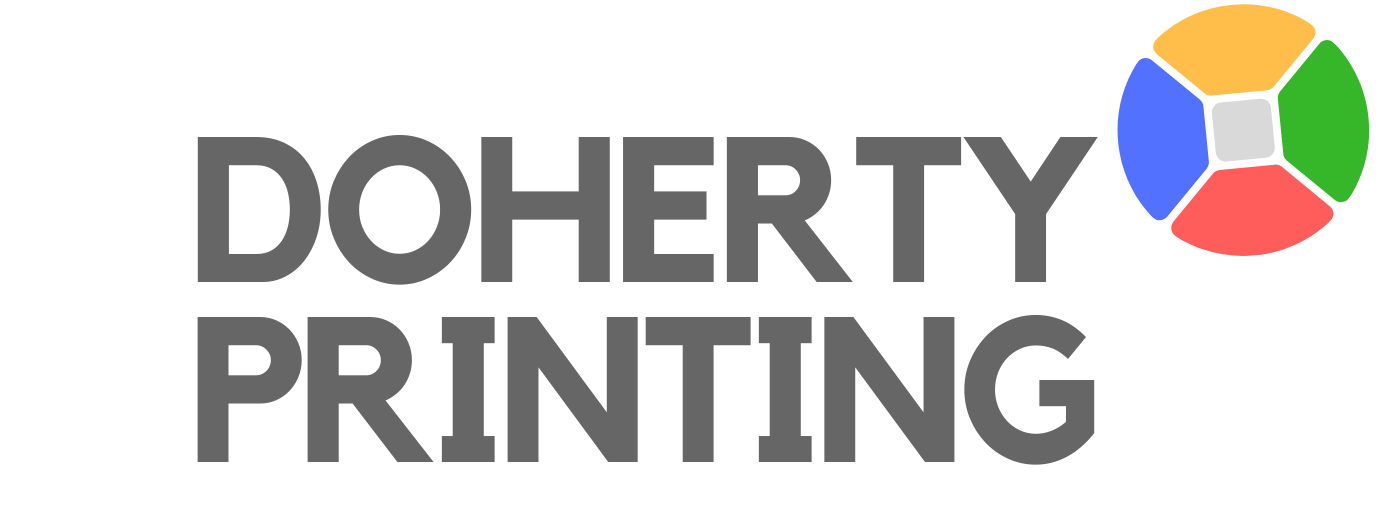
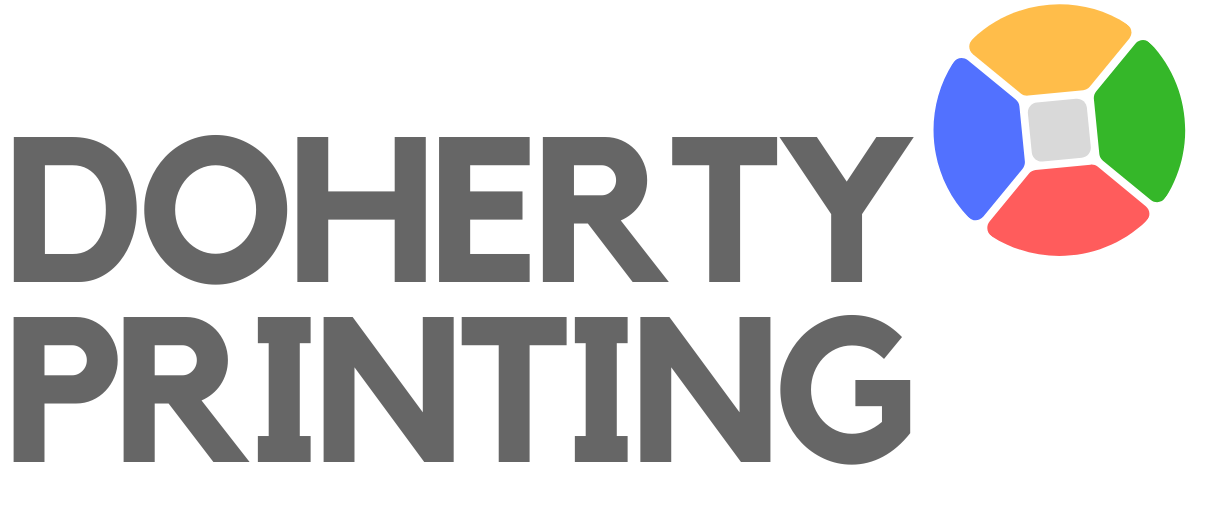
made up to the mission page responsive

diff --git a/index.html b/index.html
@@ -32,13 +32,13 @@
     <div class="row">
         <div class="col-12">
    <nav class="navbar navbar-light navbar-expand-sm">
-       <a class="navbar-brand" href="#"><img src="images/DOHERTY PRINTING (3).png" width="130" height="50" alt=""> </a>
+       <a class="navbar-brand logo" href="#"><img src="images/DOHERTY PRINTING (3).png" width="110" height="50" alt=""> </a>
        <button class="navbar-toggler ml-auto" type="button" data-toggle="collapse" data-target="#navbarNavDropdown" aria-controls="navbarNavDropdown" aria-expanded="false" aria-label="Toggle navigation">
         <span class="navbar-toggler-icon"></span></button>
         <div class="collapse navbar-collapse" id="navbarNavDropdown">
        
-         <div id="navvy"> 
-    <ul class="navbar-nav ml-auto float-right text-right">
+      
+    <ul class="navbar-nav ml-auto float-right text-right left">
         <li class="nav-item active"><a class="nav-link" href="index.html">Home <span class="sr-only"> Current page </span></a></li>
         <li class="nav-item dropdown"><a class="nav-link dropdown-toggle" href="#" id="navbarDropdown" role="button" data-toggle="dropdown" aria-haspopup="true" aria-expanded="false"> Wedding Stationery<span class="sr-only">Wedding Stationery</span></a>
             <div class="dropdown-menu" aria-labelledby="navbarDropdown">
@@ -60,7 +60,7 @@
         <li class="nav-item"><a class="nav-link" href="#">Contact Us</a></li>
     </ul>
 </div>
-    </div>
+
 </nav>
 </div>
 </div>
@@ -99,7 +99,7 @@
    
 <div class="header-cover">
        
-        <h1>THE BEST PRICED <br>MEMORIAL CARDS AND WEDDING <br>STATIONERY IN IRELAND</h1>
+        <h1>THE BEST PRICED <br>MEMORIAL CARDS AND WEDDING STATIONERY<br> IN IRELAND</h1>
    
    
         <div class="get-a-qoute">
@@ -107,14 +107,9 @@
         <button type="button" class="btn btn-primary btn-lg qoutebutton">Get A Qoute</button>
         </div>
         </div>
-        
-      
-   
-
-    
-
-    
+        <div class="card"></div>
     </header>
+
     
 
     
@@ -123,15 +118,16 @@
     
     <div class="container what-we-do">
         <div class="row">
-            <div class="col-12">
+            <div class="col-12 col-md-12">
         
     <p>
-        <h2>WHAT DO WE DO</h2>
+        <h2>WHAT DO WE DO?</h2>
         We are a small business located in County Limerick, selling high quality personalized Memorial Cards and Wedding Stationery at affordable prices. Our Memorial Card selection includes wallet cards, bookmarks and acknowledgement cards. In our Wedding Stationery collection, we sell day and evening invitations, mass booklets and thank you cards. 
     </p>
     </div>
     </div>
     </div>
+    <div class="picture"></div>
 
     <!-------mission statement-->
     <div class="container mission">

diff --git a/CSS/style.css b/CSS/style.css
@@ -10,15 +10,16 @@ h2{
 }
 /*navbar------------------*/
 .navbar{
-    padding-left:0;
     font-family:"Roboto", sans-serif ;
     font-size:.75em;
     margin-top:0;
 }
 
+
+
 /*header--------*/
 .header-cover{
-    background-color: rgb(201, 225, 233);
+    background-color:rgb(201, 225, 233);
 }
 h1{
     color:rgb(83, 82, 82);
@@ -53,11 +54,6 @@ font-size:30px;
     padding:0;
 }
 
-@media screen and (max-width: 1366px){
-    #navvy{
-        margin-left:2px;
-    }
-}
 
 
 
@@ -96,6 +92,110 @@ font-size:30px;
       .form{
           margin:0 auto;
           max-width:70%;
+      }
+
+      @media screen and (max-width:1066px){
+          
+          
+
+          /*header*/
+          .slideshow{
+              height:400px;
+              width:550px;
+              
+          }
+
+          h1{
+              font-size:40px;
+          }
+
+          .qoutebutton{
+              height:60px;
+              width:150px;
+              font-size:20px;
+              margin-top: 5px;
+          }
+
+          /*whqat do we do section*/
+          .what-we-do{
+              margin-left:0px;
+          }
+
+      }
+
+      @media screen and (max-width:500px){
+          /*logo*/
+          .logo{
+              margin-left:0px;
+          }
+
+        /*header*/
+          .slideshow{
+              display:none;
+          }
+
+          .card{
+              background: black url(img/cards.jpg) no-repeat center center;
+              width:100%;
+              height:300px;
+              background-size: cover; 
+          }
+
+          h1{
+              line-height:1.2;
+              
+          }
+
+          
+
+          /*what do we do section*/
+          .what-we-do{
+              margin-left:0px;
+          }
+
+          .picture{
+              background: black url(img/memorial.jpg) no-repeat center center;
+              width:100%;
+              height:300px;
+              background-size: cover; 
+              
+          }
+
+      }
+
+      @media screen and (max-width:800px){
+
+        /*header*/
+          .slideshow{
+              height:310px;
+              width:420px;
+              margin-right:0px;
+              
+          }
+
+          h1{
+              font-size:30px;
+          }
+
+          .qoutebutton{
+              height:50px;
+              width:150px;
+              font-size:20px;
+              margin:0;
+          }
+
+          /*what do we do section*/
+          .what-we-do{
+              margin-left:0px;
+              margin-right:0;
+              font-size:15px;
+          }
+
+          .mission{
+              font-size:20px;
+              padding-top:10px;
+          }
+
       }
 
 
